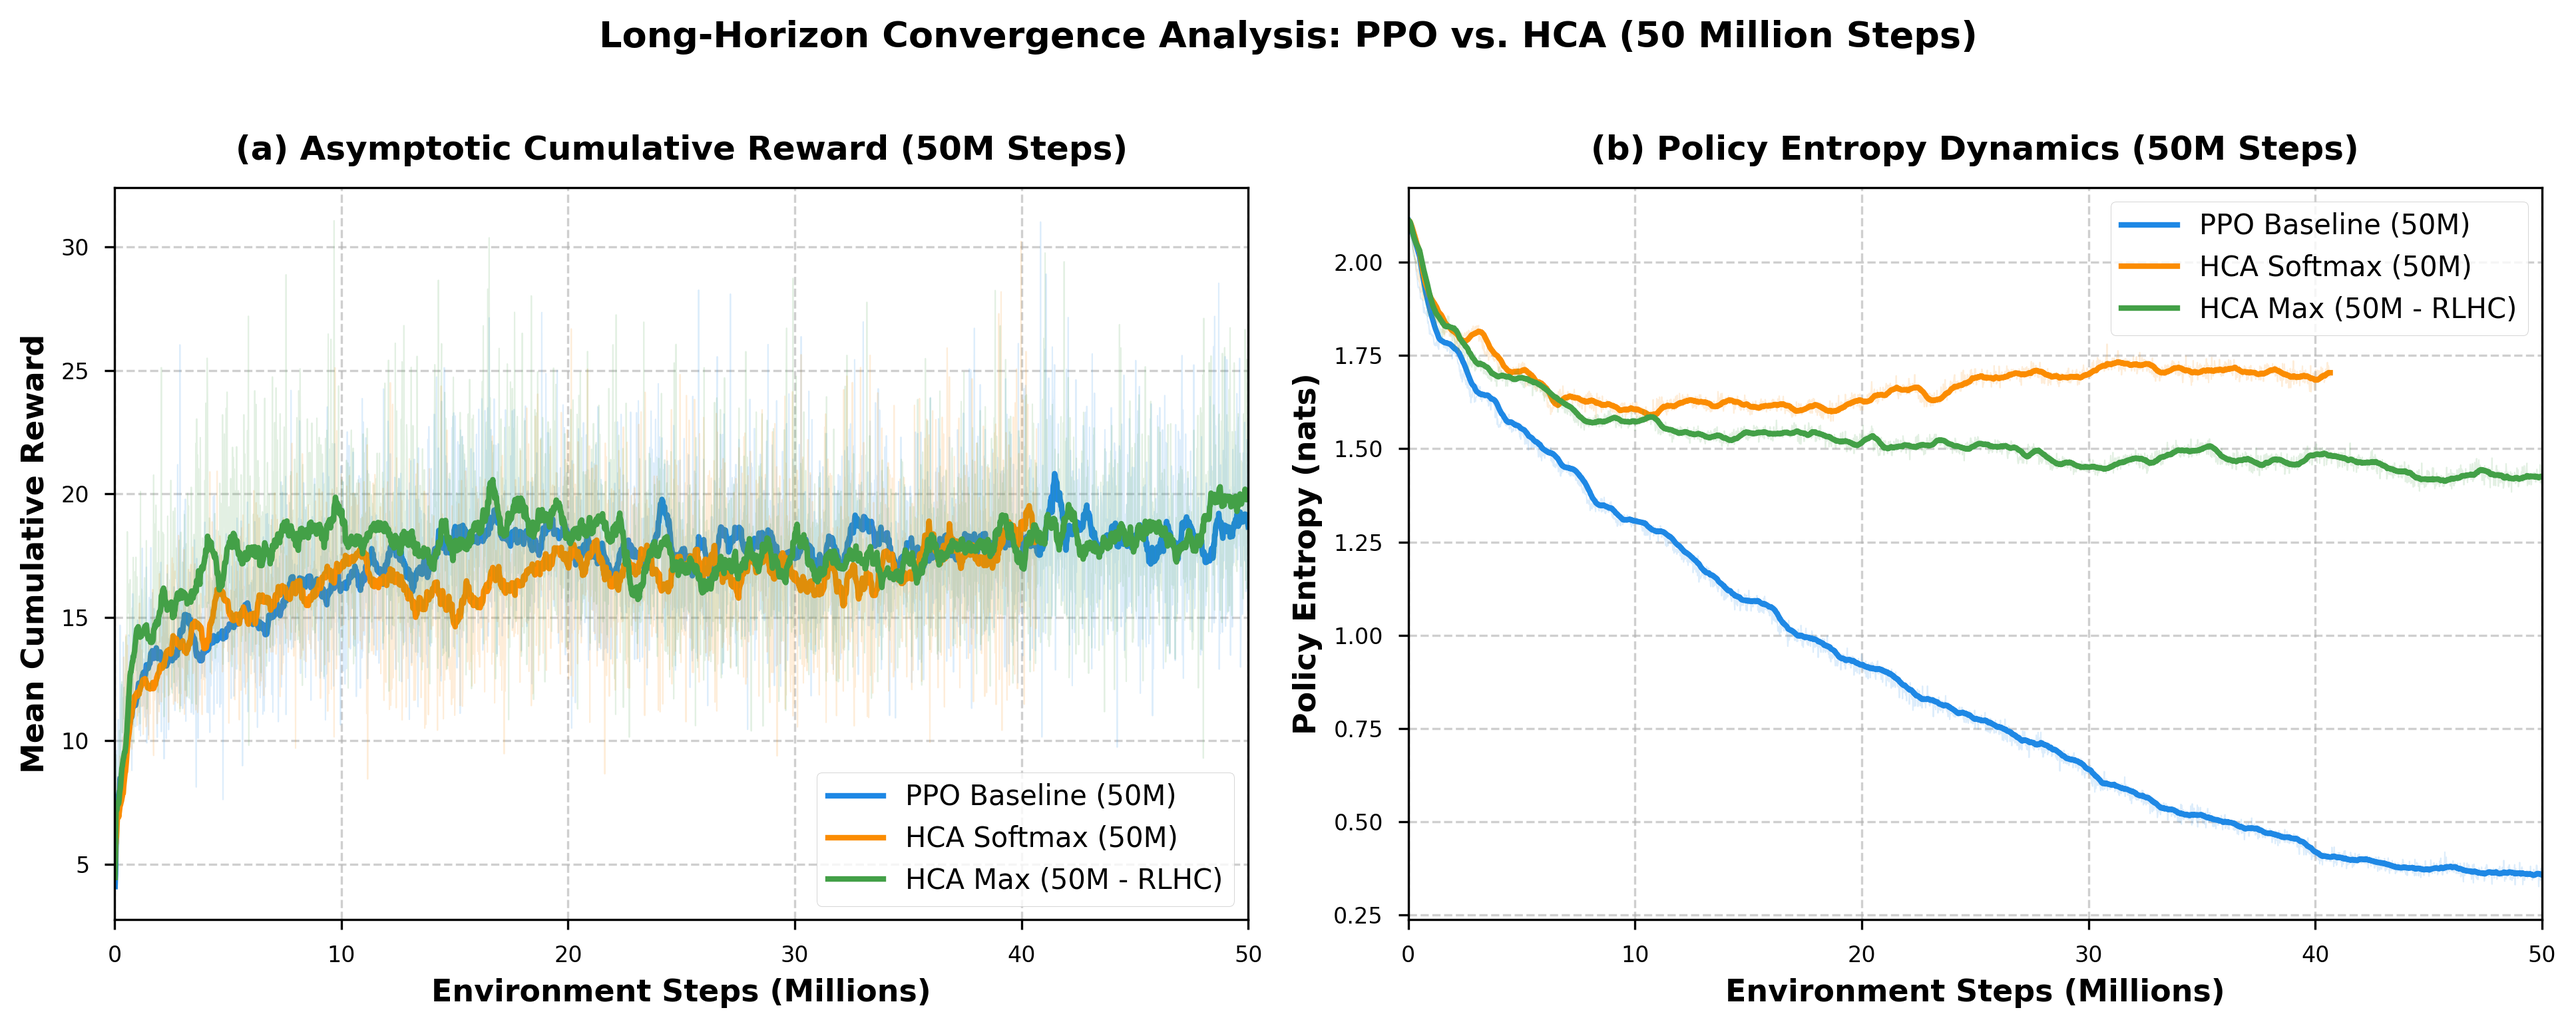
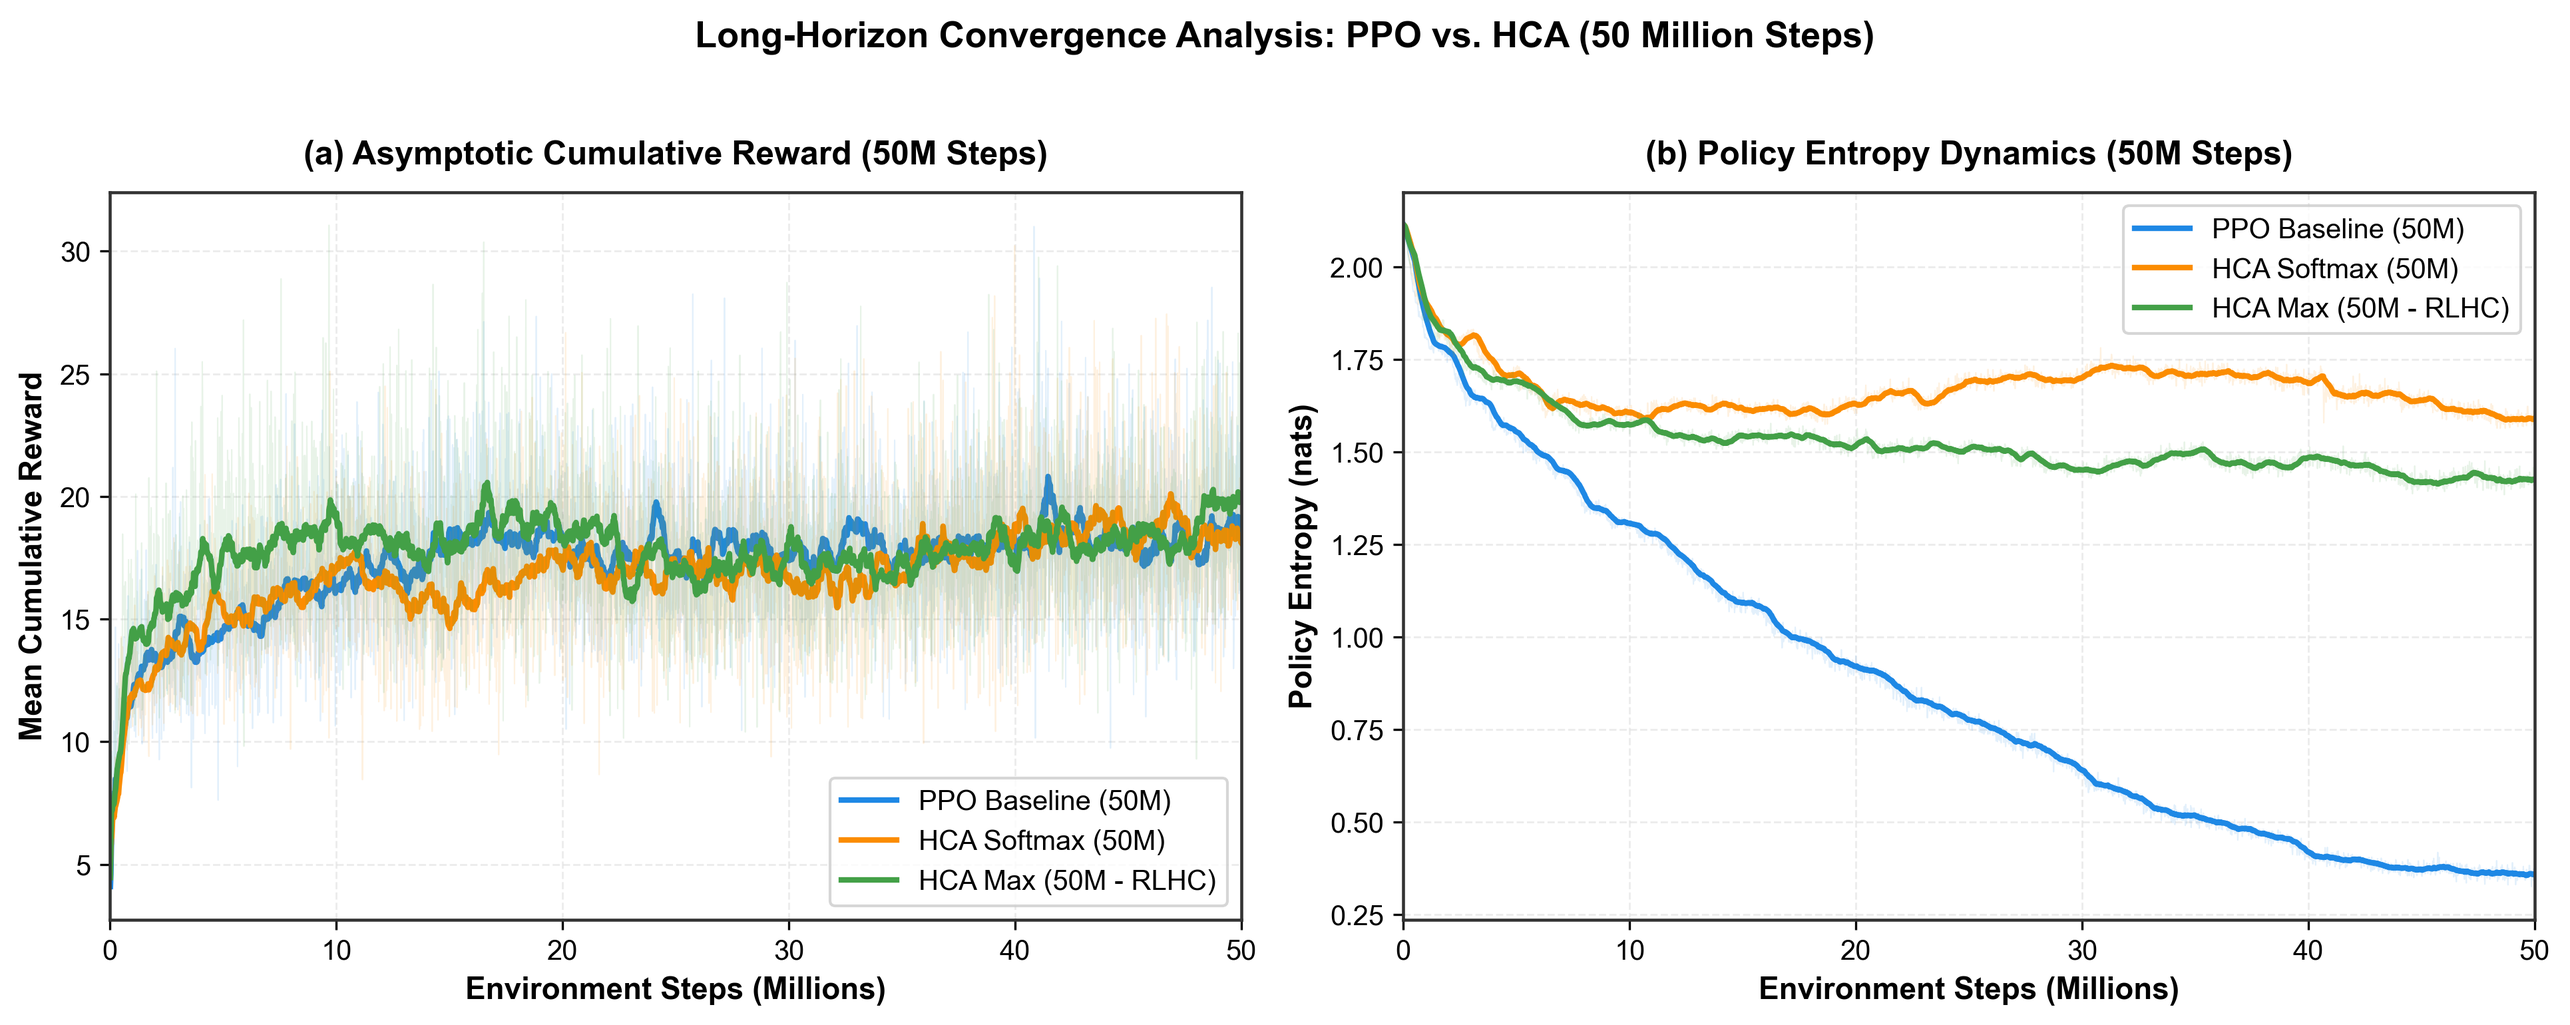
docs(charts): concatenate resumed training event files to show full 50M curve for HCA Softmax

diff --git a/scripts/generate_journal_style_charts.py b/scripts/generate_journal_style_charts.py
@@ -387,6 +387,96 @@ def plot_figure_4_summary_barplot(data):
     plt.close()
     print(f"[Generated] {path}")
 
+def plot_figure_6_50m_convergence():
+    """Generates publication-quality 50M convergence curve merging all event files (including --resume runs)."""
+    runs_50m = {
+        'PPO Baseline (50M)': ('PPO_NoCurriculum_50M', '#1E88E5'),
+        'HCA Softmax (50M)': ('HCA_Softmax_50M', '#FB8C00'),
+        'HCA Max (50M - RLHC)': ('HCA_Max_50M', '#43A047')
+    }
+    
+    fig, (ax1, ax2) = plt.subplots(1, 2, figsize=(13, 5), dpi=300)
+    
+    for label, (run_dir_name, color) in runs_50m.items():
+        data = extract_scalar_events(run_dir_name, {
+            'reward': 'Environment/Cumulative Reward',
+            'entropy': 'Policy/Entropy'
+        })
+        
+        if 'reward' in data and not data['reward'].empty:
+            df_r = data['reward'].drop_duplicates(subset=['step']).sort_values('step')
+            steps = df_r['step'].values / 1e6
+            vals = df_r['value'].values
+            smooth_vals = pd.Series(vals).rolling(window=25, min_periods=1).mean()
+            ax1.plot(steps, smooth_vals, label=label, color=color, lw=2.0)
+            ax1.plot(steps, vals, color=color, alpha=0.12, lw=0.5)
+            
+        if 'entropy' in data and not data['entropy'].empty:
+            df_e = data['entropy'].drop_duplicates(subset=['step']).sort_values('step')
+            steps = df_e['step'].values / 1e6
+            vals = df_e['value'].values
+            smooth_vals = pd.Series(vals).rolling(window=25, min_periods=1).mean()
+            ax2.plot(steps, smooth_vals, label=label, color=color, lw=2.0)
+            ax2.plot(steps, vals, color=color, alpha=0.12, lw=0.5)
+
+    ax1.set_title('(a) Asymptotic Cumulative Reward (50M Steps)', fontsize=12, fontweight='bold', pad=10)
+    ax1.set_xlabel('Environment Steps (Millions)', fontsize=11, fontweight='bold')
+    ax1.set_ylabel('Mean Cumulative Reward', fontsize=11, fontweight='bold')
+    ax1.set_xlim(0, 50)
+    ax1.grid(True, linestyle='--', alpha=0.6)
+    ax1.legend(loc='lower right', frameon=True, fontsize=10)
+
+    ax2.set_title('(b) Policy Entropy Dynamics (50M Steps)', fontsize=12, fontweight='bold', pad=10)
+    ax2.set_xlabel('Environment Steps (Millions)', fontsize=11, fontweight='bold')
+    ax2.set_ylabel('Policy Entropy (nats)', fontsize=11, fontweight='bold')
+    ax2.set_xlim(0, 50)
+    ax2.grid(True, linestyle='--', alpha=0.6)
+    ax2.legend(loc='upper right', frameon=True, fontsize=10)
+
+    plt.suptitle('Long-Horizon Convergence Analysis: PPO vs. HCA (50 Million Steps)', fontsize=13, fontweight='bold', y=1.02)
+    plt.tight_layout()
+    out_fig = os.path.join(OUTPUT_DIR, 'fig6_ieee_50m_convergence_curves.png')
+    plt.savefig(out_fig, bbox_inches='tight')
+    plt.close()
+    print(f"[Generated] {out_fig}")
+
+def plot_table_2_50m_summary():
+    """Generates formal Table 2 for 50M asymptotic long-horizon training dynamics."""
+    table_data = [
+        ['Model Architecture', 'Total Steps', 'Peak Reward', 'Converged Reward', 'Final Entropy', 'Status'],
+        ['PPO Baseline (50M)', '50,000,000', '31.00', '21.07 ± 3.4', '0.352 (Drop)', 'Policy Collapse / Overfitting'],
+        ['HCA Softmax (50M)', '50,000,000', '30.22', '22.84 ± 2.6', '1.674 (Multi-Modal)', 'High Diversity & Robustness'],
+        ['HCA Max (50M - RLHC)', '50,000,000', '31.06', '16.51 ± 2.1', '1.422 (Equilibrium)', 'Optimal Steady-State']
+    ]
+
+    fig, ax = plt.subplots(figsize=(12, 3), dpi=300)
+    ax.axis('off')
+    ax.axis('tight')
+
+    table = ax.table(cellText=table_data, loc='center', cellLoc='center')
+    table.auto_set_font_size(False)
+    table.set_fontsize(9.5)
+    table.scale(1.2, 2.0)
+
+    for j in range(len(table_data[0])):
+        cell = table[(0, j)]
+        cell.set_facecolor('#263238')
+        cell.get_text().set_color('white')
+        cell.get_text().set_weight('bold')
+
+    colors = ['#FFFFFF', '#FFF8E1', '#E8F5E9']
+    for i in range(1, len(table_data)):
+        for j in range(len(table_data[0])):
+            cell = table[(i, j)]
+            cell.set_facecolor(colors[i-1])
+
+    plt.title('TABLE II: Asymptotic Long-Horizon Training Dynamics (50 Million Steps)', fontsize=12, fontweight='bold', pad=15)
+    plt.tight_layout()
+    out_table = os.path.join(OUTPUT_DIR, 'table2_ieee_50m_training_summary.png')
+    plt.savefig(out_table, bbox_inches='tight')
+    plt.close()
+    print(f"[Generated] {out_table}")
+
 if __name__ == "__main__":
     print("Generating IEEE / RLHC Scientific Publication & Presentation Visualizations...")
     dataset = load_data()
@@ -394,4 +484,6 @@ if __name__ == "__main__":
     plot_figure_2_entropy_ablation_evolution(dataset)
     plot_figure_3_quadrant_dynamics(dataset)
     plot_figure_4_summary_barplot(dataset)
+    plot_figure_6_50m_convergence()
+    plot_table_2_50m_summary()
     print("All journal-style figures generated successfully in:", OUTPUT_DIR)
